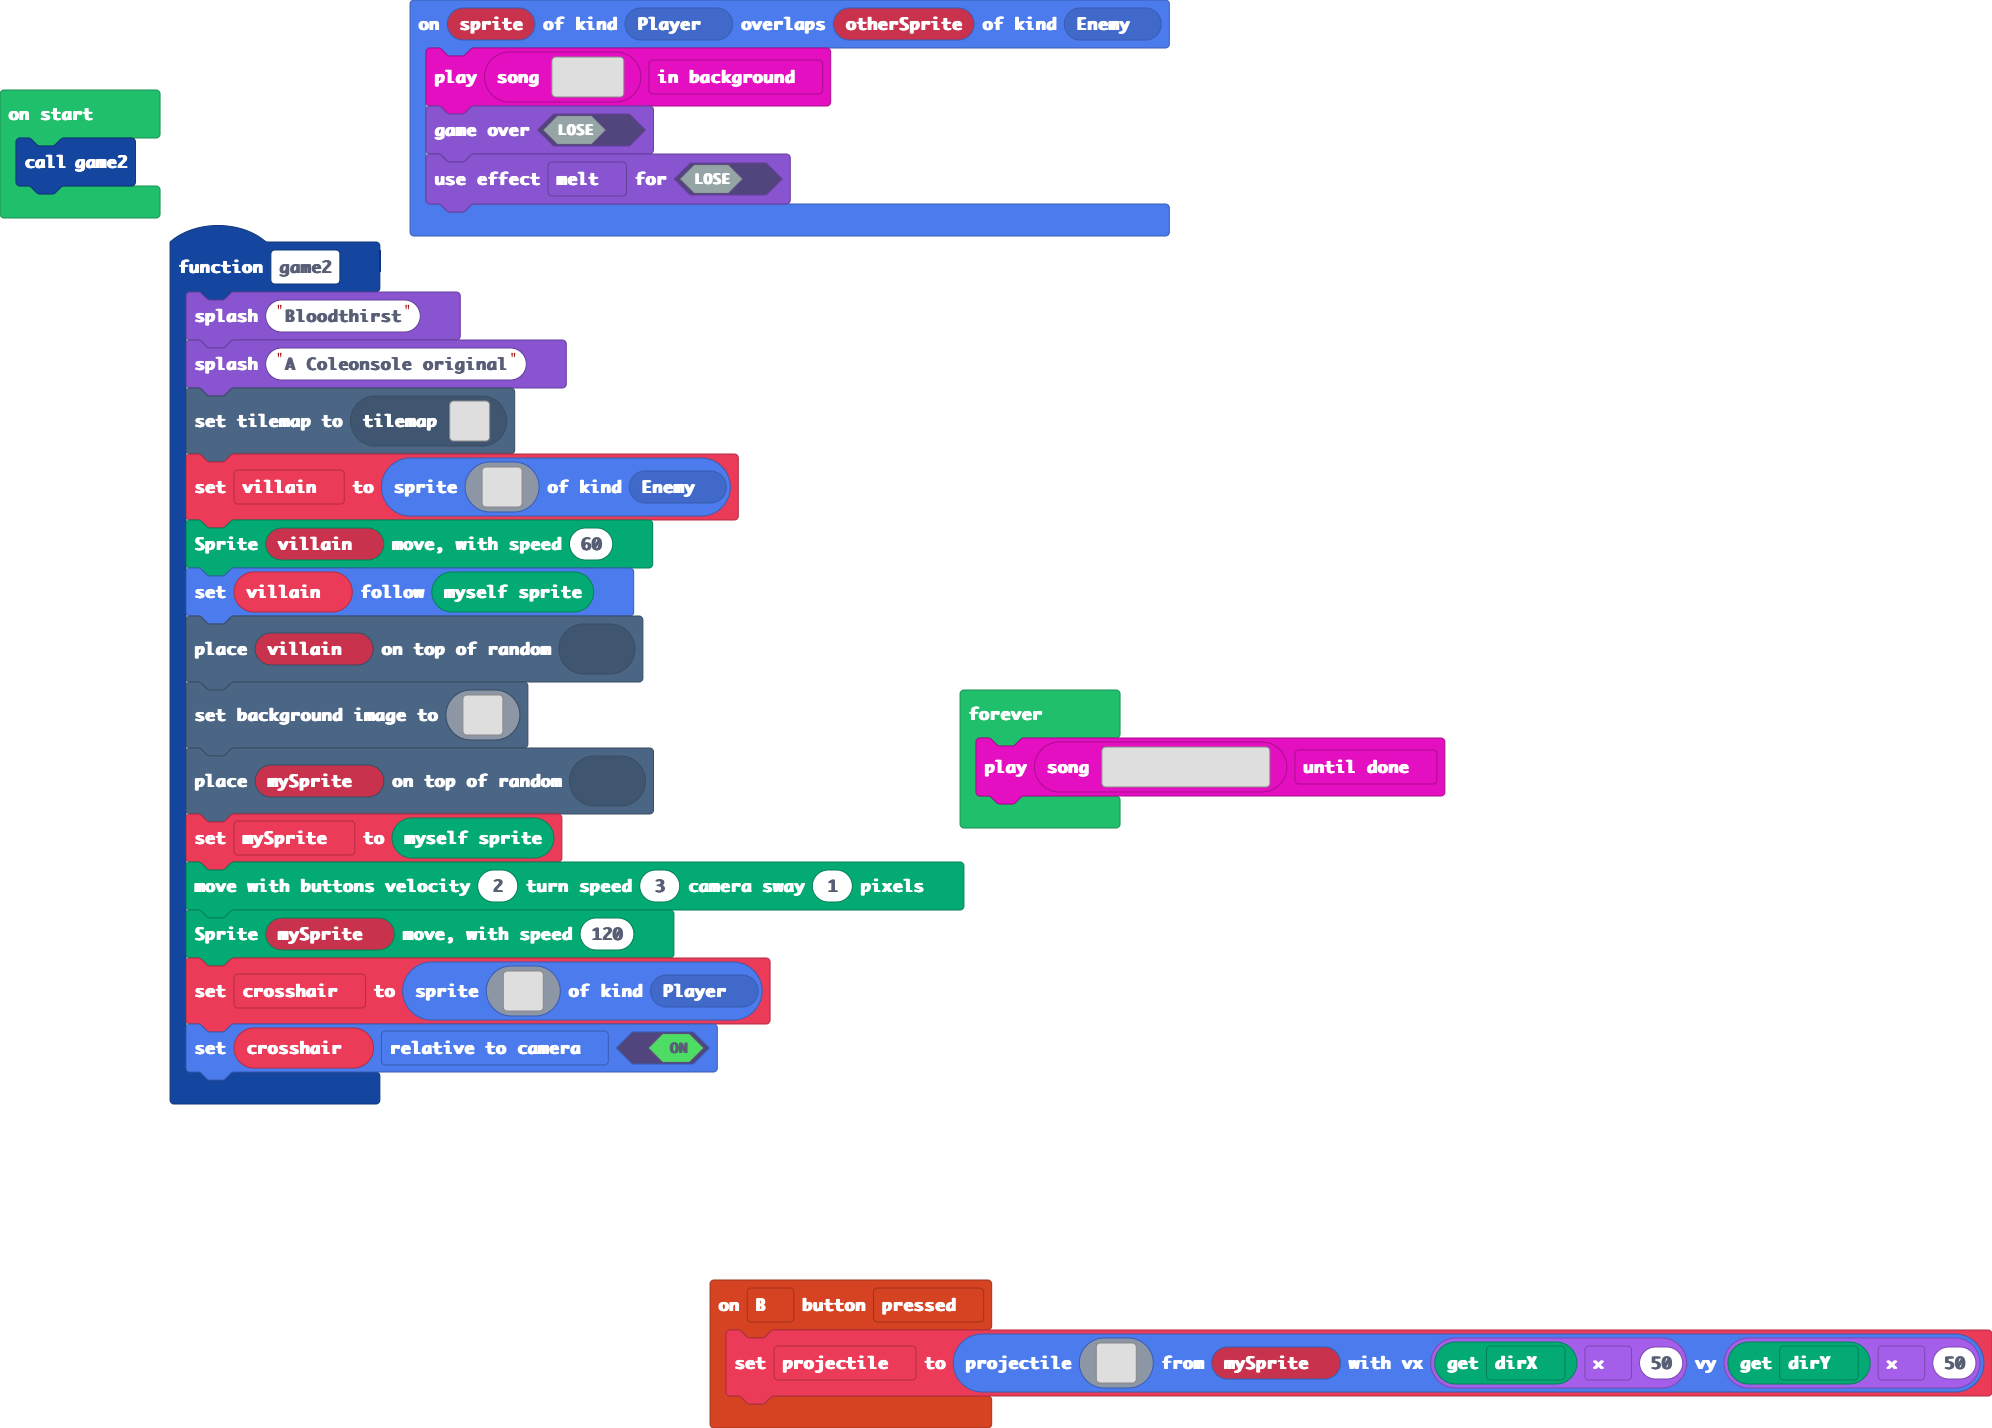
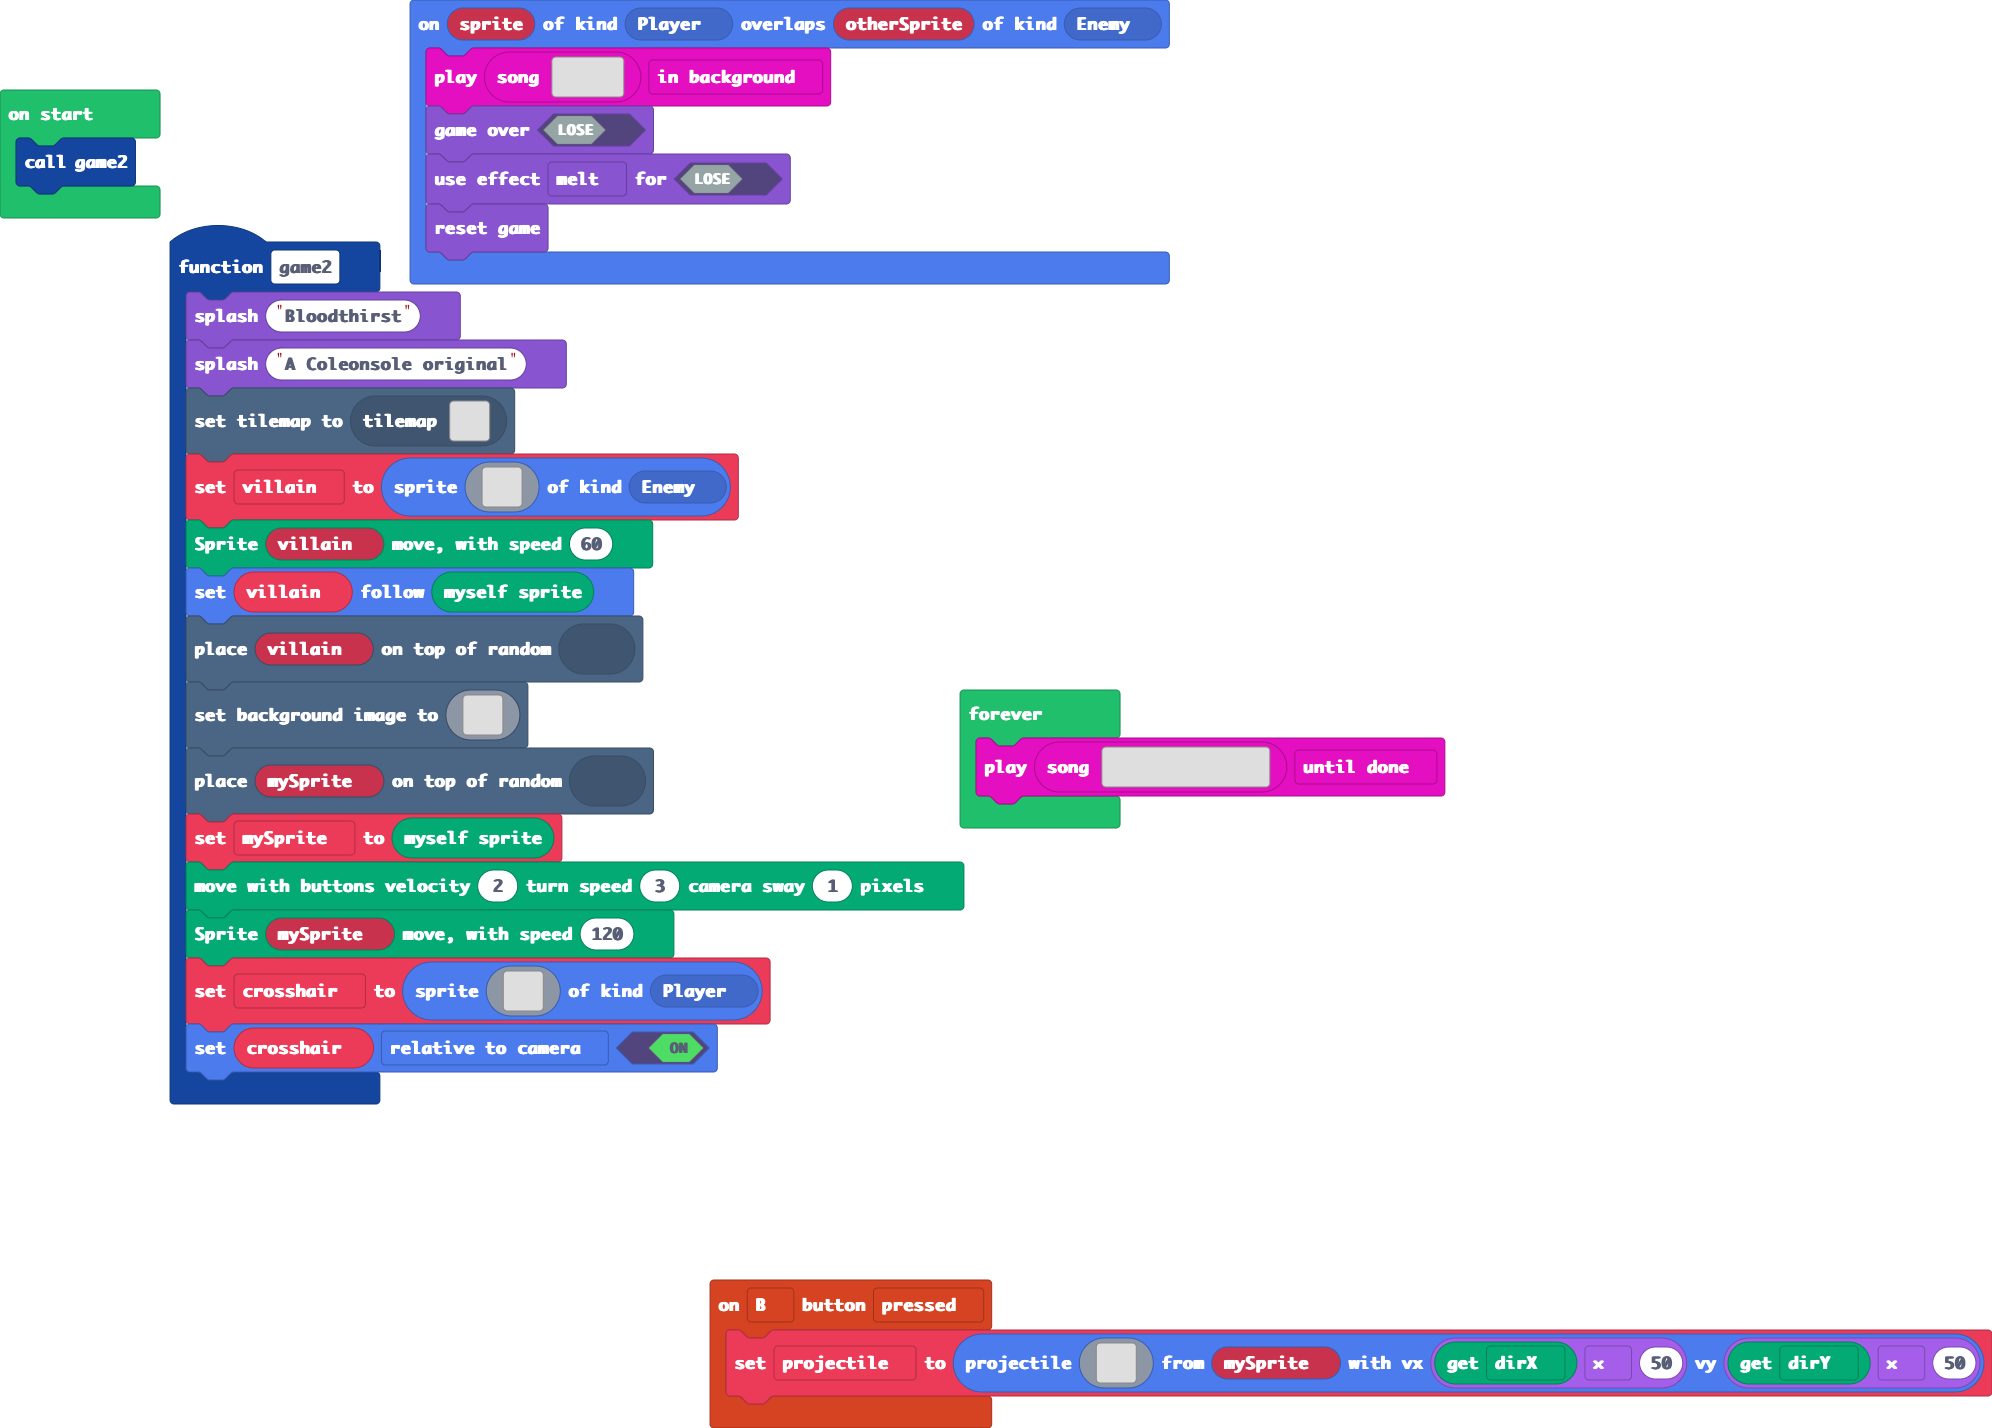
Update main.blocks, main.ts

Changed region(s): [[0.1867, 0.1232, 0.5914, 0.2157]]

diff --git a/main.ts b/main.ts
@@ -193,6 +193,7 @@ sprites.onOverlap(SpriteKind.Player, SpriteKind.Enemy, function (sprite, otherSp
[1 lines of base64/hex data omitted]
     game.gameOver(false)
     game.setGameOverEffect(false, effects.melt)
+    game.reset()
 })
 let crosshair: Sprite = null
 let villain: Sprite = null
